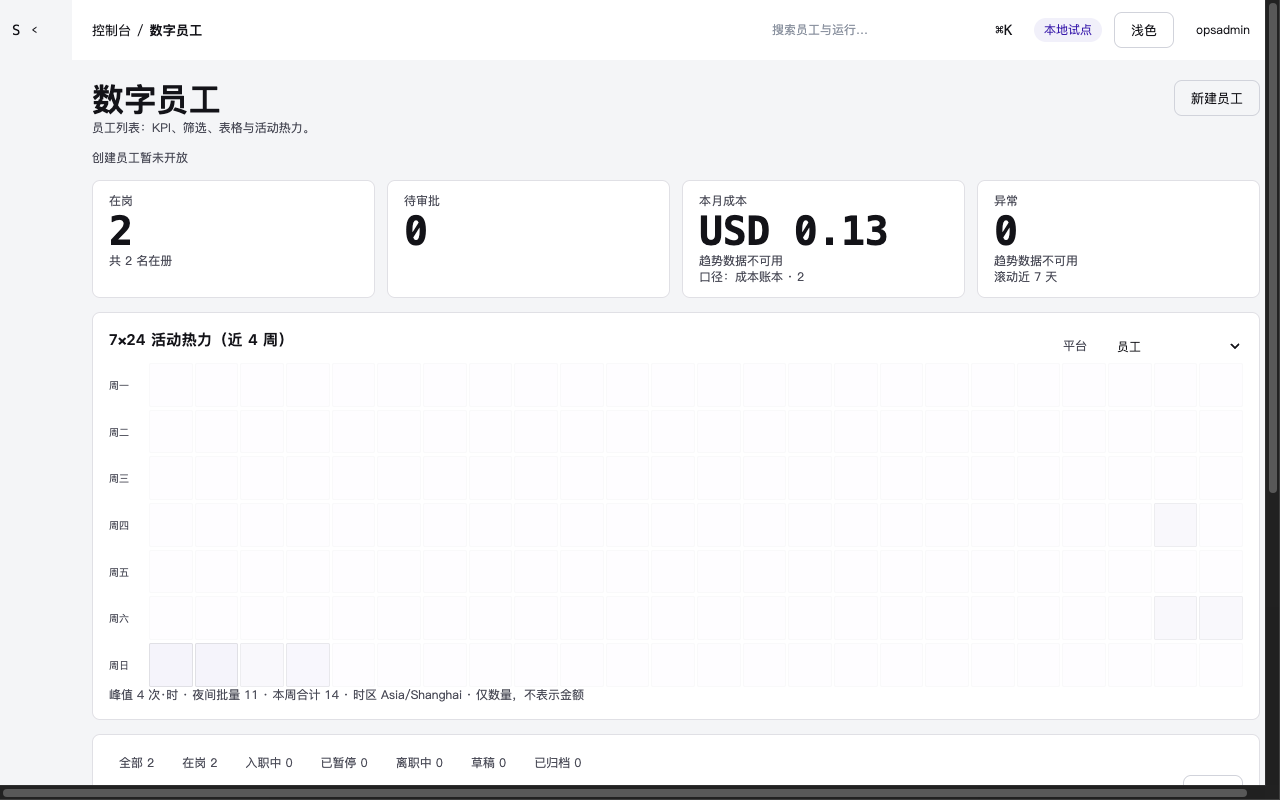
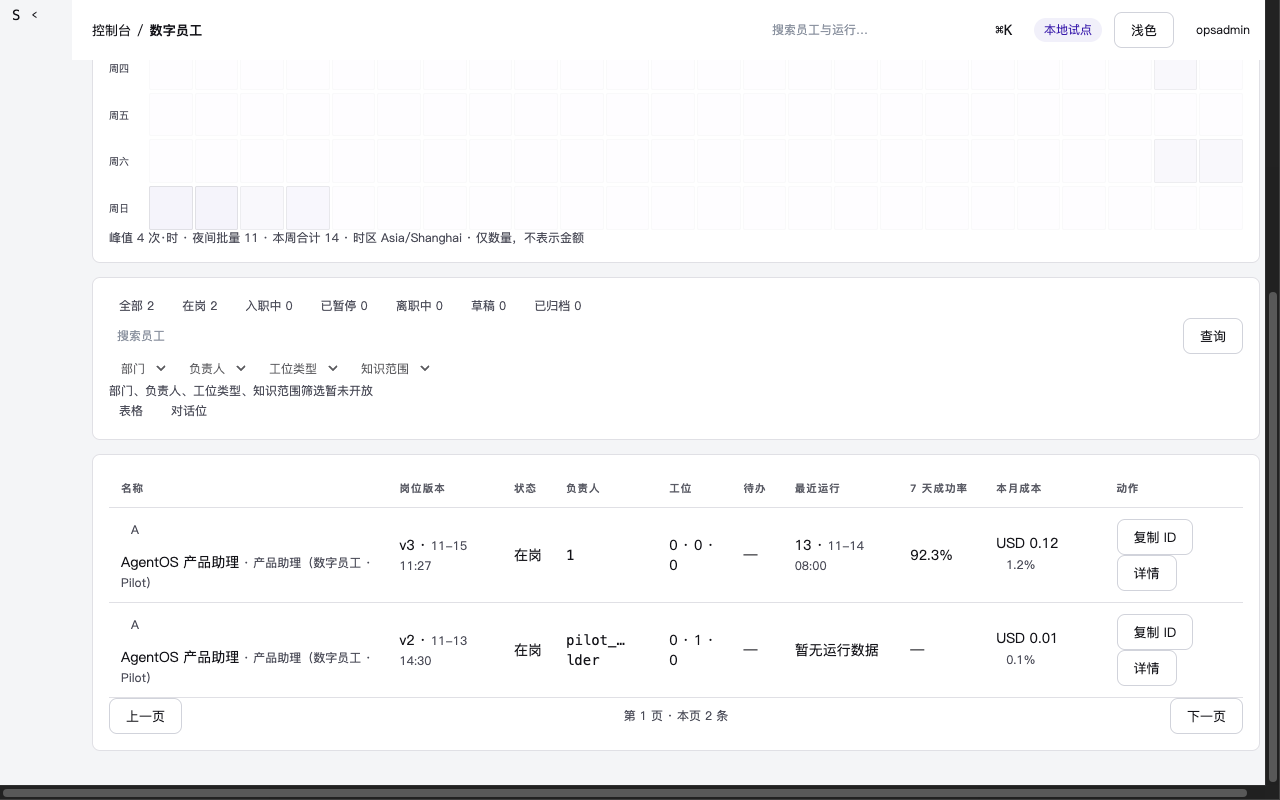
docs(validation): EMP-01 rework evidence - table-visible light shots, fixed-rail 375, C2 sort/search/view/URL/pagination readouts + screenshots (card 2260)

diff --git a/docs/validation/console/employees-list/EVIDENCE.md b/docs/validation/console/employees-list/EVIDENCE.md
@@ -133,3 +133,49 @@ Scope: light-theme tiers, mockup side-by-sides, real viewer01 403, detail scope 
 ### Coverage note
 - Dark tiers: 1440/375 (enrichment re-shoot round) + 1280/768 (four-tier round). Light tiers: all four this round. Mockup side-by-sides: light + dark list screens this round.
 - W2 status remains in-progress; this section only closes the fixed-evidence gaps named in L0 card 2211.
+
+## EMP-01 rework (L6 round 2, card 2260, 2026-11-15)
+
+### C1 light screenshots re-taken WITH table rows visible
+All shots: dev preview http://127.0.0.1:5399/agent/employees (V2 flag build, proxy
+/agent-api -> BFF 8092), real opsadmin cookie login, first employee row scrolled into
+center before capture. `rect` = first-row bounding box after scrollIntoView (top within
+viewport height proves table rows are in frame). sips verified pixel sizes.
+
+| file | sips px | rows | theme attr | rect |
+|---|---|---|---|---|
+| w2-employees-1440x900-light.png | 1440x900 | 2 | light | top=608 vh=900 |
+| w2-employees-1280x800-light.png | 1280x800 | 2 | light | top=507 vh=800 |
+| w2-employees-768x1024-light.png | 768x1024 | 2 | light | top=677 vh=1024 |
+| w2-employees-375x812-light.png | 375x812 (mobile emulation) | 2 | light | top=427 vh=812 |
+| w2-employees-375x812-dark-table.png | 375x812 (mobile emulation) | 2 | dark | fixed rail rect top=796 bottom=812 vh=812 -> bottom nav affordance visible while table also on screen |
+
+Mobile rail fix shipped in this rework: consoleShell.css <=767 rail switched from
+`position: sticky; bottom: 0` (order:2 at document end, invisible during scroll) to
+`position: fixed; bottom: 0; left: 0; right: 0; z-index: 20; background: hsl(var(--card))`
+plus page bottom padding 88px so content clears the rail. Verified above with computed
+position=fixed and rail inside viewport on a mid-document scroll.
+
+### C2 sort implemented + interaction evidence (1440x900 light, real BFF data)
+Scope note (per card): sorting is client-side over the CURRENT page only; E11 has no
+server-side sort parameter, so full-dataset ordering is a known gap, not claimed.
+Sort state is recorded in URL `?sort=<col>:asc|desc`, cycled asc -> desc -> cleared.
+Column headers are real buttons (`a2-th-btn`, focus ring, aria-sort on th).
+
+Readouts (full text in readout.txt, `l4w2r C1/C2 rework readout` section):
+- URL persistence: `?keyword=AgentOS&lifecycleState=active` reloaded -> inputVal=AgentOS, rows=2 -> w2-c2-url.png
+- Search interaction: typed `zzz不存在` -> `?keyword=zzz%E4%B8%8D%E5%AD%98%E5%9C%A8`, rows=0, empty state shown -> w2-c2-search.png; restored to AgentOS rows=2
+- View switch: `对话位` -> `?view=chat`, chatview text `对话位聚合视图未接入` (honest, no fake aggregation) -> w2-c2-viewchat.png; back to table clears param
+- Sort by cost: asc -> costs [USD 0.01, USD 0.12] `?sort=cost%3Aasc`; desc -> [USD 0.12, USD 0.01] `?sort=cost%3Adesc` -> w2-c2-sort.png (name sort exists but pilot rows share display name, cost chosen for visible order change)
+- Keyset pagination: `?limit=1` rows=1 (cost 0.12), next-page click -> URL gains server-issued `cursor=eyJjcmVhdGVkQXQ...` (base64 created/id, real keyset), rows=1 (cost 0.01) -> w2-c2-nextpage.png
+
+### Secondary cell fixes (card item 4)
+- version cell: `v{N} · {MM-DD HH:mm}` separator added (was `v311-15`)
+- status cell: `a2-cell-nowrap` added (no per-character wrapping)
+- owner cell: shows full `ownerUserId` (was truncated handle `pilot_…lder`); `1` / `pilot_owner_placeholder`
+
+### Gates on the rework tree
+- platform lint exit 0; targeted `src/pages/AgentConsoleV2` exit 0 (Test Files 9, Tests 112 incl. +2 new sort/pagination tests)
+- full platform test: Tests 43 failed | 1747 passed (1790) -> frozen baseline 43 failed / 18 files, new failures 0, passed strictly increased
+- build:platform exit 0; VITE_AGENT_CONSOLE_V2=1 build:platform exit 0 (entry assets/js/index-_oTHR00v.js); git diff --check exit 0
+- C0-B still open -> page stays in-progress, no PASS judgement here.

diff --git a/docs/validation/console/employees-list/ACCEPTANCE.md b/docs/validation/console/employees-list/ACCEPTANCE.md
@@ -13,9 +13,9 @@
 
 - [ ] **C0 需求覆盖**：本卡逐条对应 PRD §4.2；每个按钮/空态/错误态有需求；PRD v2 评审通过前该项保持未过
 - [ ] **C1 视觉还原**：1440×900 / 1280 / 768 / 375 四档、深/浅各一套，与 mockup 同屏并排；发丝线/圆角/`tabular-nums`/KPI 字阶/单一强调色/状态软药丸/按钮三级；无 `undefined`/`[object Object]`/内部术语/假 0/“待接入”
-  - 证据（2026-11-15 L4 更新，L0 卡 2211）：浅色四档已补齐（w2-employees-{1280x800,768x1024,375x812,1440x900}-light.png，sips 实测像素、data-theme=light+localStorage 验证，rows=2 真实数据），并排图 w2-compare-1440-{light,dark}.png（2892×900，左 mockup 右实现）；逐元素差异清单见 EVIDENCE.md『EMP-01 fixed evidence』节。深色仍为 1440/375/1280/768 既有套图。
+  - 证据（2026-11-15 rework, card 2260）：light 四档截图已重拍并全部包含表格数据行（scrollIntoView 后 rect 顶部在视口内，sips 实测 1440x900/1280x800/768x1024/375x812），375 dark+light 底部导航 fixed rail 可见；见 EVIDENCE.md『EMP-01 rework』节。
 - [ ] **C2 功能闭环**：搜索、状态/部门/负责人/工位/知识筛选、视图切换、URL 保存、排序、分页、行操作（详情/复制 ID/Bisheng 打开/暂停按权限）、创建入口均可达且有结果；返回保留筛选
-  - 证据（2026-11-15 L4）：`EVIDENCE.md` DOM/API 读回——搜索+状态筛选真实（E11 keyword/lifecycleState）、视图切换、URL 保存（?keyword=&lifecycleState=&cursor=&view=）、keyset 分页、复制 ID/详情入口在位。仍差：部门/负责人/工位/知识筛选（无服务端参数，诚实禁用）、排序、Bisheng 打开/暂停、行级详情路由（W3）、创建入口后端（无 BFF 写代理，禁用+原因）。
+  - 证据（2026-11-15 rework, card 2260）：列排序已实现（当前页客户端排序+URL ?sort=col:dir+aria-sort，全量排序为已知缺口），搜索/视图切换/URL 持久化/翻页点击各附操作后截图 w2-c2-{url,search,viewchat,sort,nextpage}.png 与 readout。
   - 范围归属（L0 卡 2211）：归本页=keyword+lifecycleState 筛选、URL 保存、keyset 分页、复制 ID、enrichment 四列（岗位版本实测 v3·11-15 11:27 / v2·11-13 14:30）；归 W3=详情路由与行点击进详情、创建入口后端（E1 无 BFF 写代理，按钮 disabled+原因注记）；数据口缺=部门/负责人/工位类型/知识范围筛选无 E11 服务端参数（诚实禁用）、最紧急待办无批量口（enrichment 无 pendingApprovalCount 时显示 —）、排序未做、totals/asOf 未接（B4）。
 - [ ] **C3 数据真实**：真实登录/租户/数据；每个数字可追溯到接口；缺失显示 `—` 或明确空态；served entry == 验收分支 build
   - 证据（2026-11-15 L4）：`EVIDENCE.md` API 读回——真实 BFF 五请求全 200（employees expand=version,workstations,knowledge,pending / employee-stats / run-stats / budget-usage / run-activity），每数字有来源，缺失列显 —（8101 domain 旧进程不返 enrichment，根因与修复归属已记）。仍差：served entry == 验收分支 build 的对账归 L7（8182 尚未部署本分支）。
